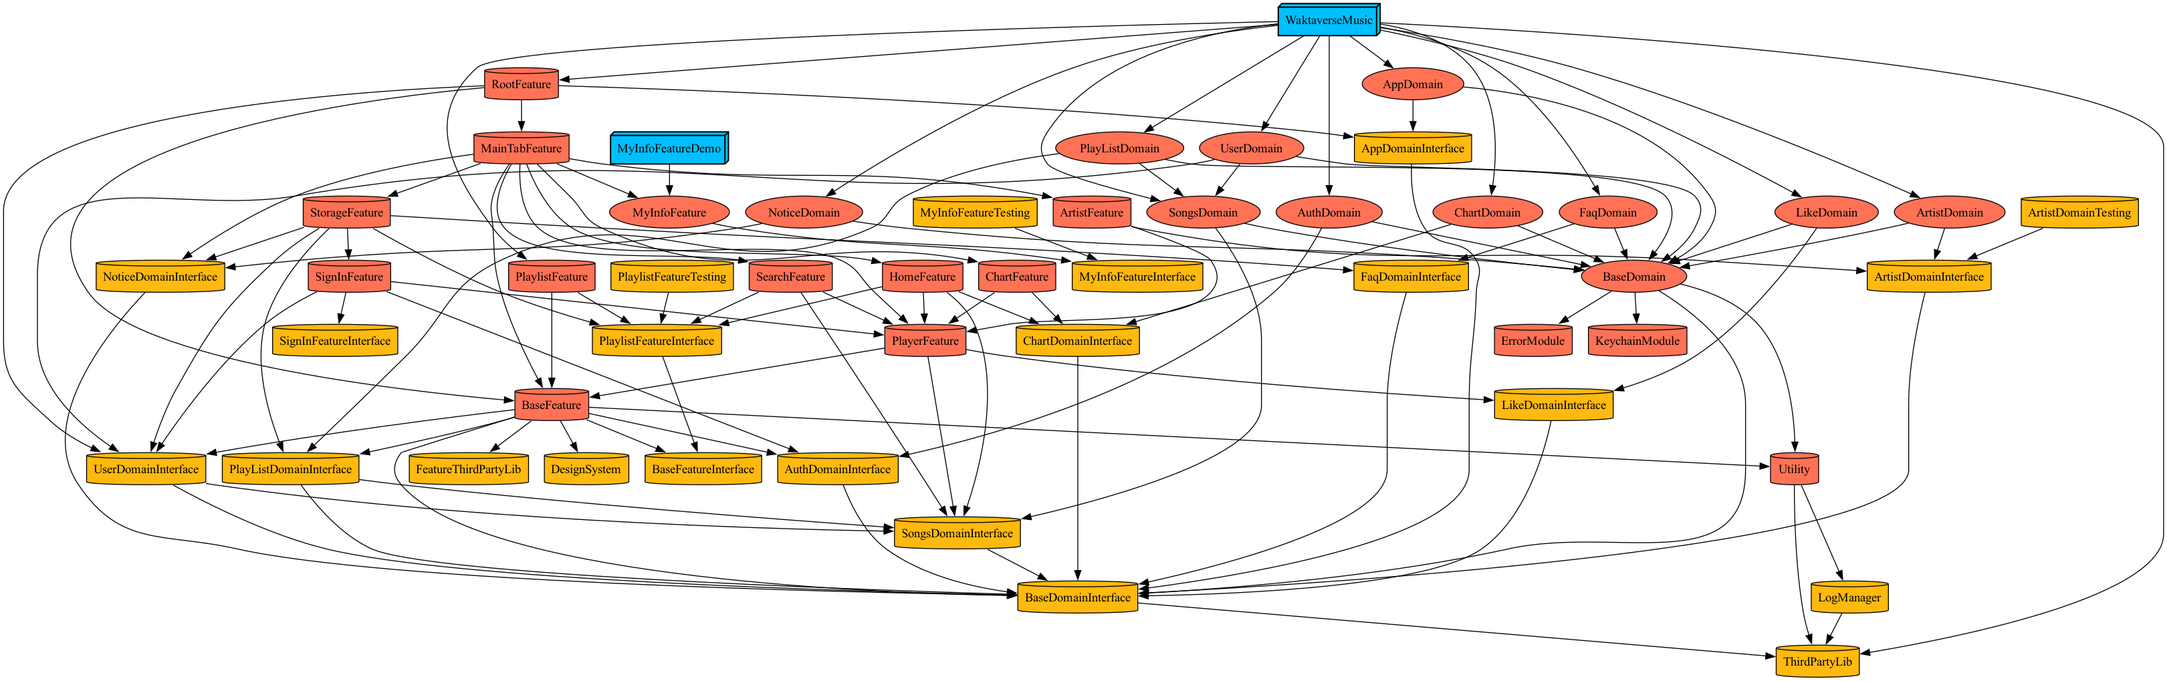
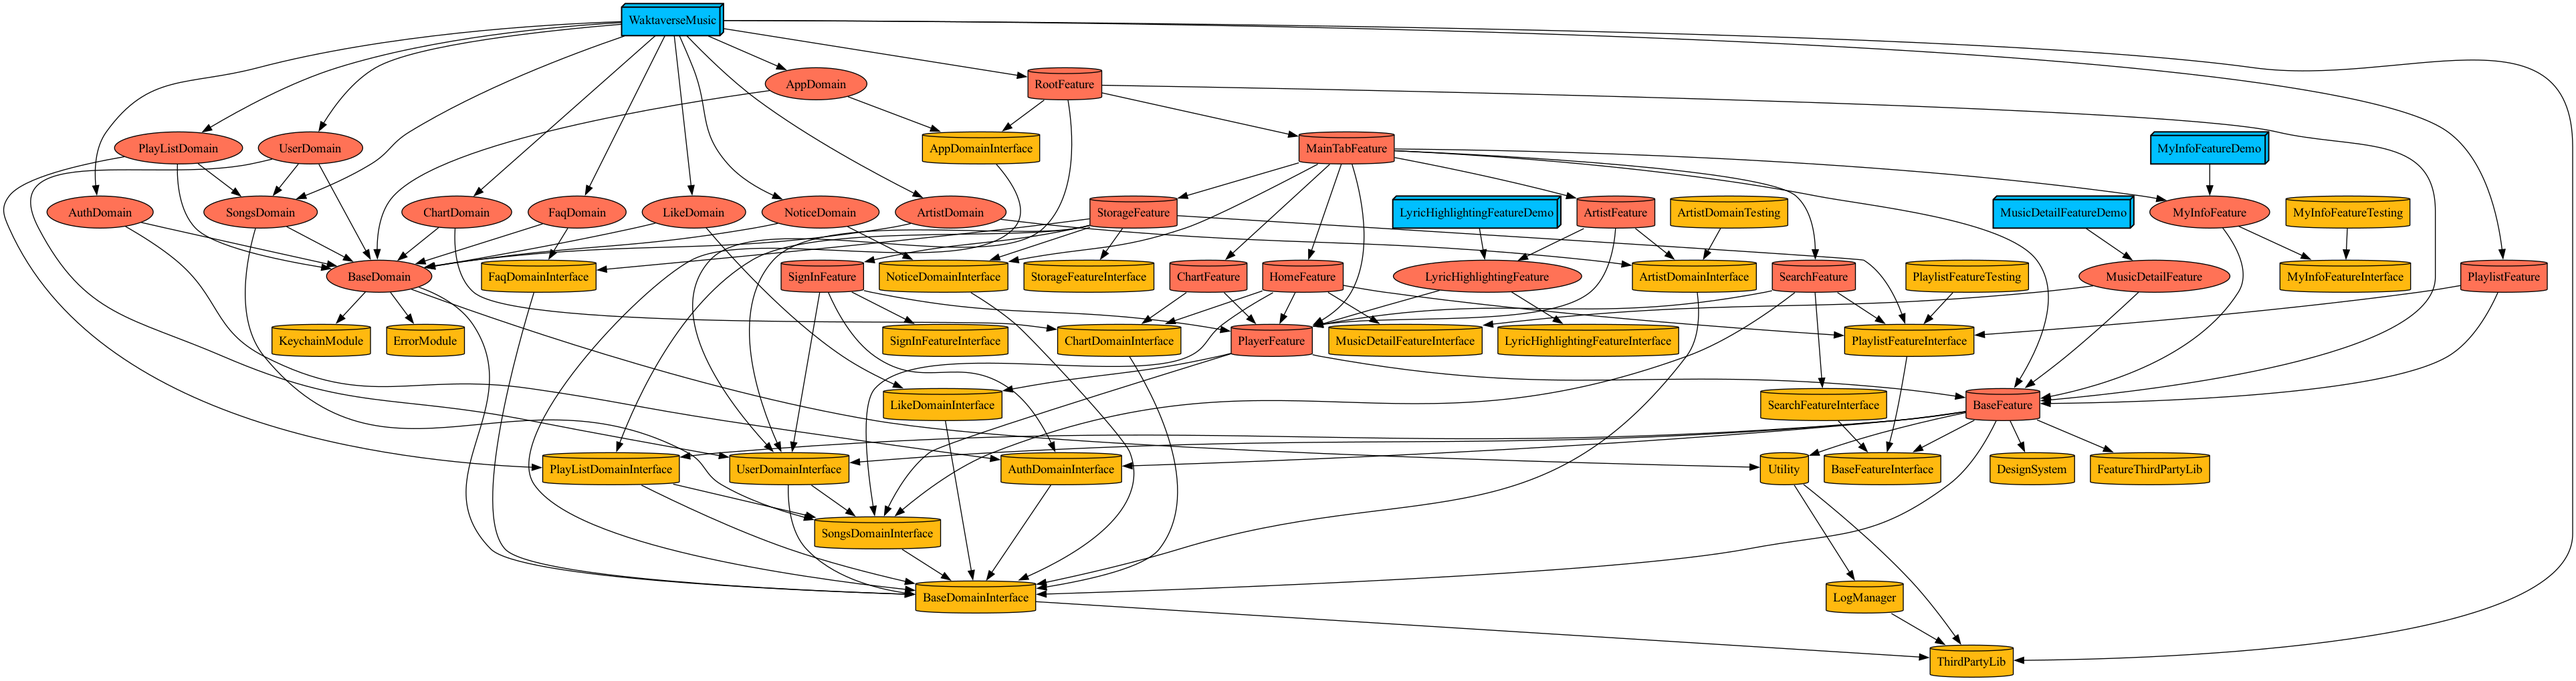
🔧 :: 의존성 연결, 그래프 업데이트

diff --git a/Projects/Features/LyricHighlightingFeature/Sources/ViewControllers/LyricHighlightingViewController.swift b/Projects/Features/LyricHighlightingFeature/Sources/ViewControllers/LyricHighlightingViewController.swift
@@ -6,9 +6,24 @@
 //  Copyright © 2024 yongbeomkwak. All rights reserved.
 //
 
+import LogManager
 import UIKit
 
 class LyricHighlightingViewController: UIViewController {
+
+    deinit {
+        LogManager.printDebug("❌:: \(Self.self) deinit")
+    }
+
+    init() {
+        super.init(nibName: nil, bundle: nil)
+    }
+
+    @available(*, unavailable)
+    required init?(coder: NSCoder) {
+        fatalError("\(Self.self) has not been implemented")
+    }
+
     override func viewDidLoad() {
         super.viewDidLoad()
     }

diff --git a/Projects/Features/LyricHighlightingFeature/Project.swift b/Projects/Features/LyricHighlightingFeature/Project.swift
@@ -10,7 +10,10 @@ let project = Project.module(
         ),
         .implements(
             module: .feature(.LyricHighlightingFeature),
-            dependencies: [.feature(target: .LyricHighlightingFeature, type: .interface)]
+            dependencies: [
+                .feature(target: .PlayerFeature),
+                .feature(target: .LyricHighlightingFeature, type: .interface)
+            ]
         ),
         .tests(
             module: .feature(.LyricHighlightingFeature),
